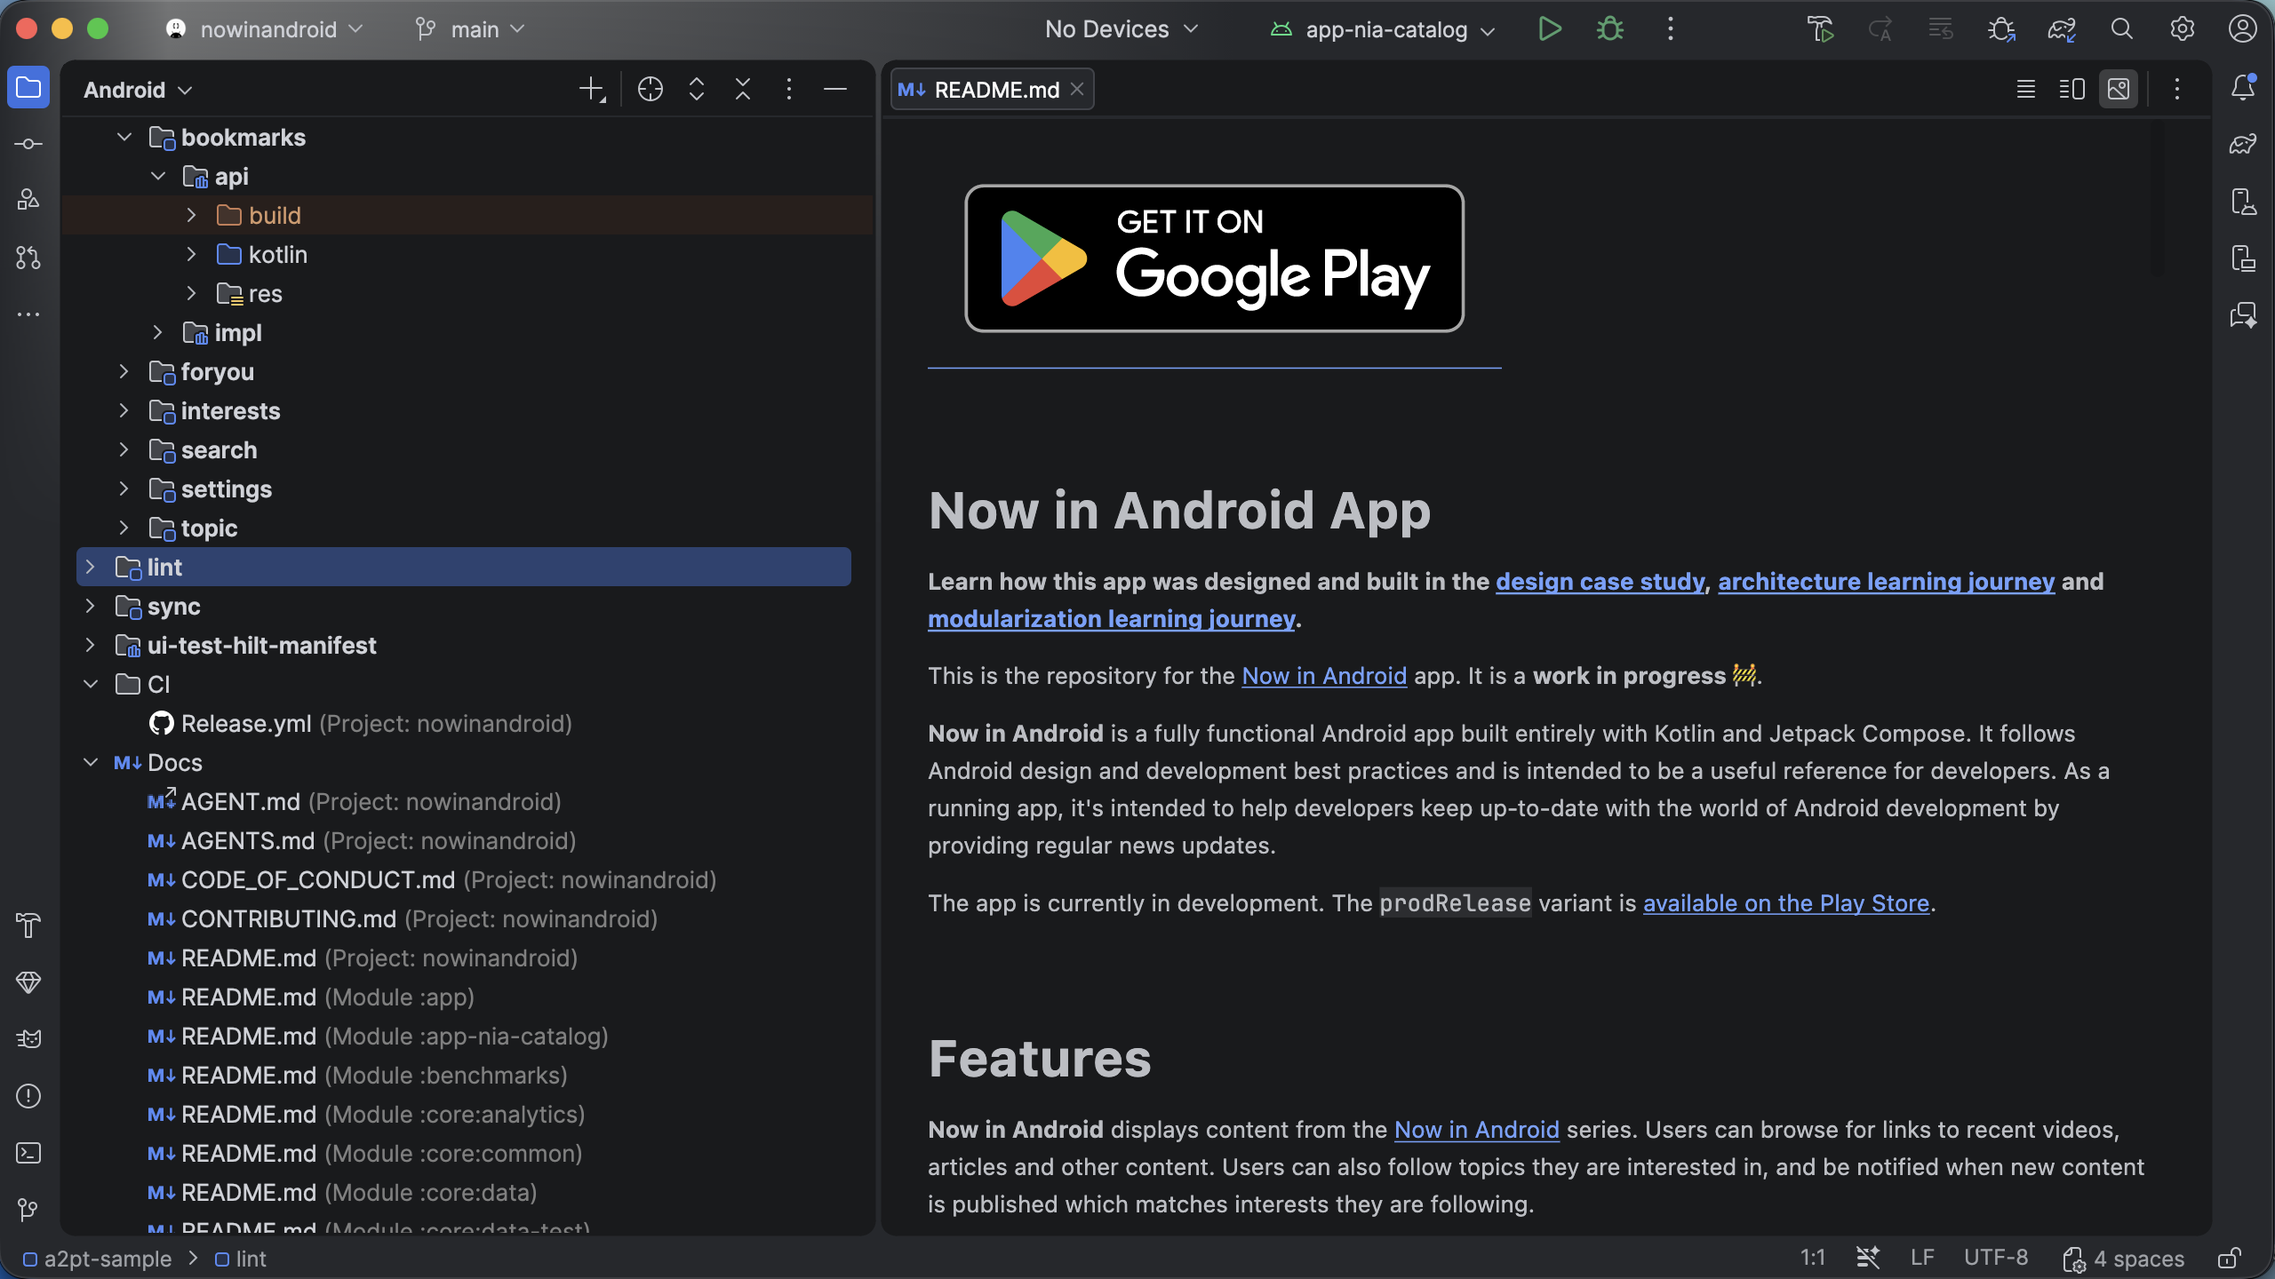
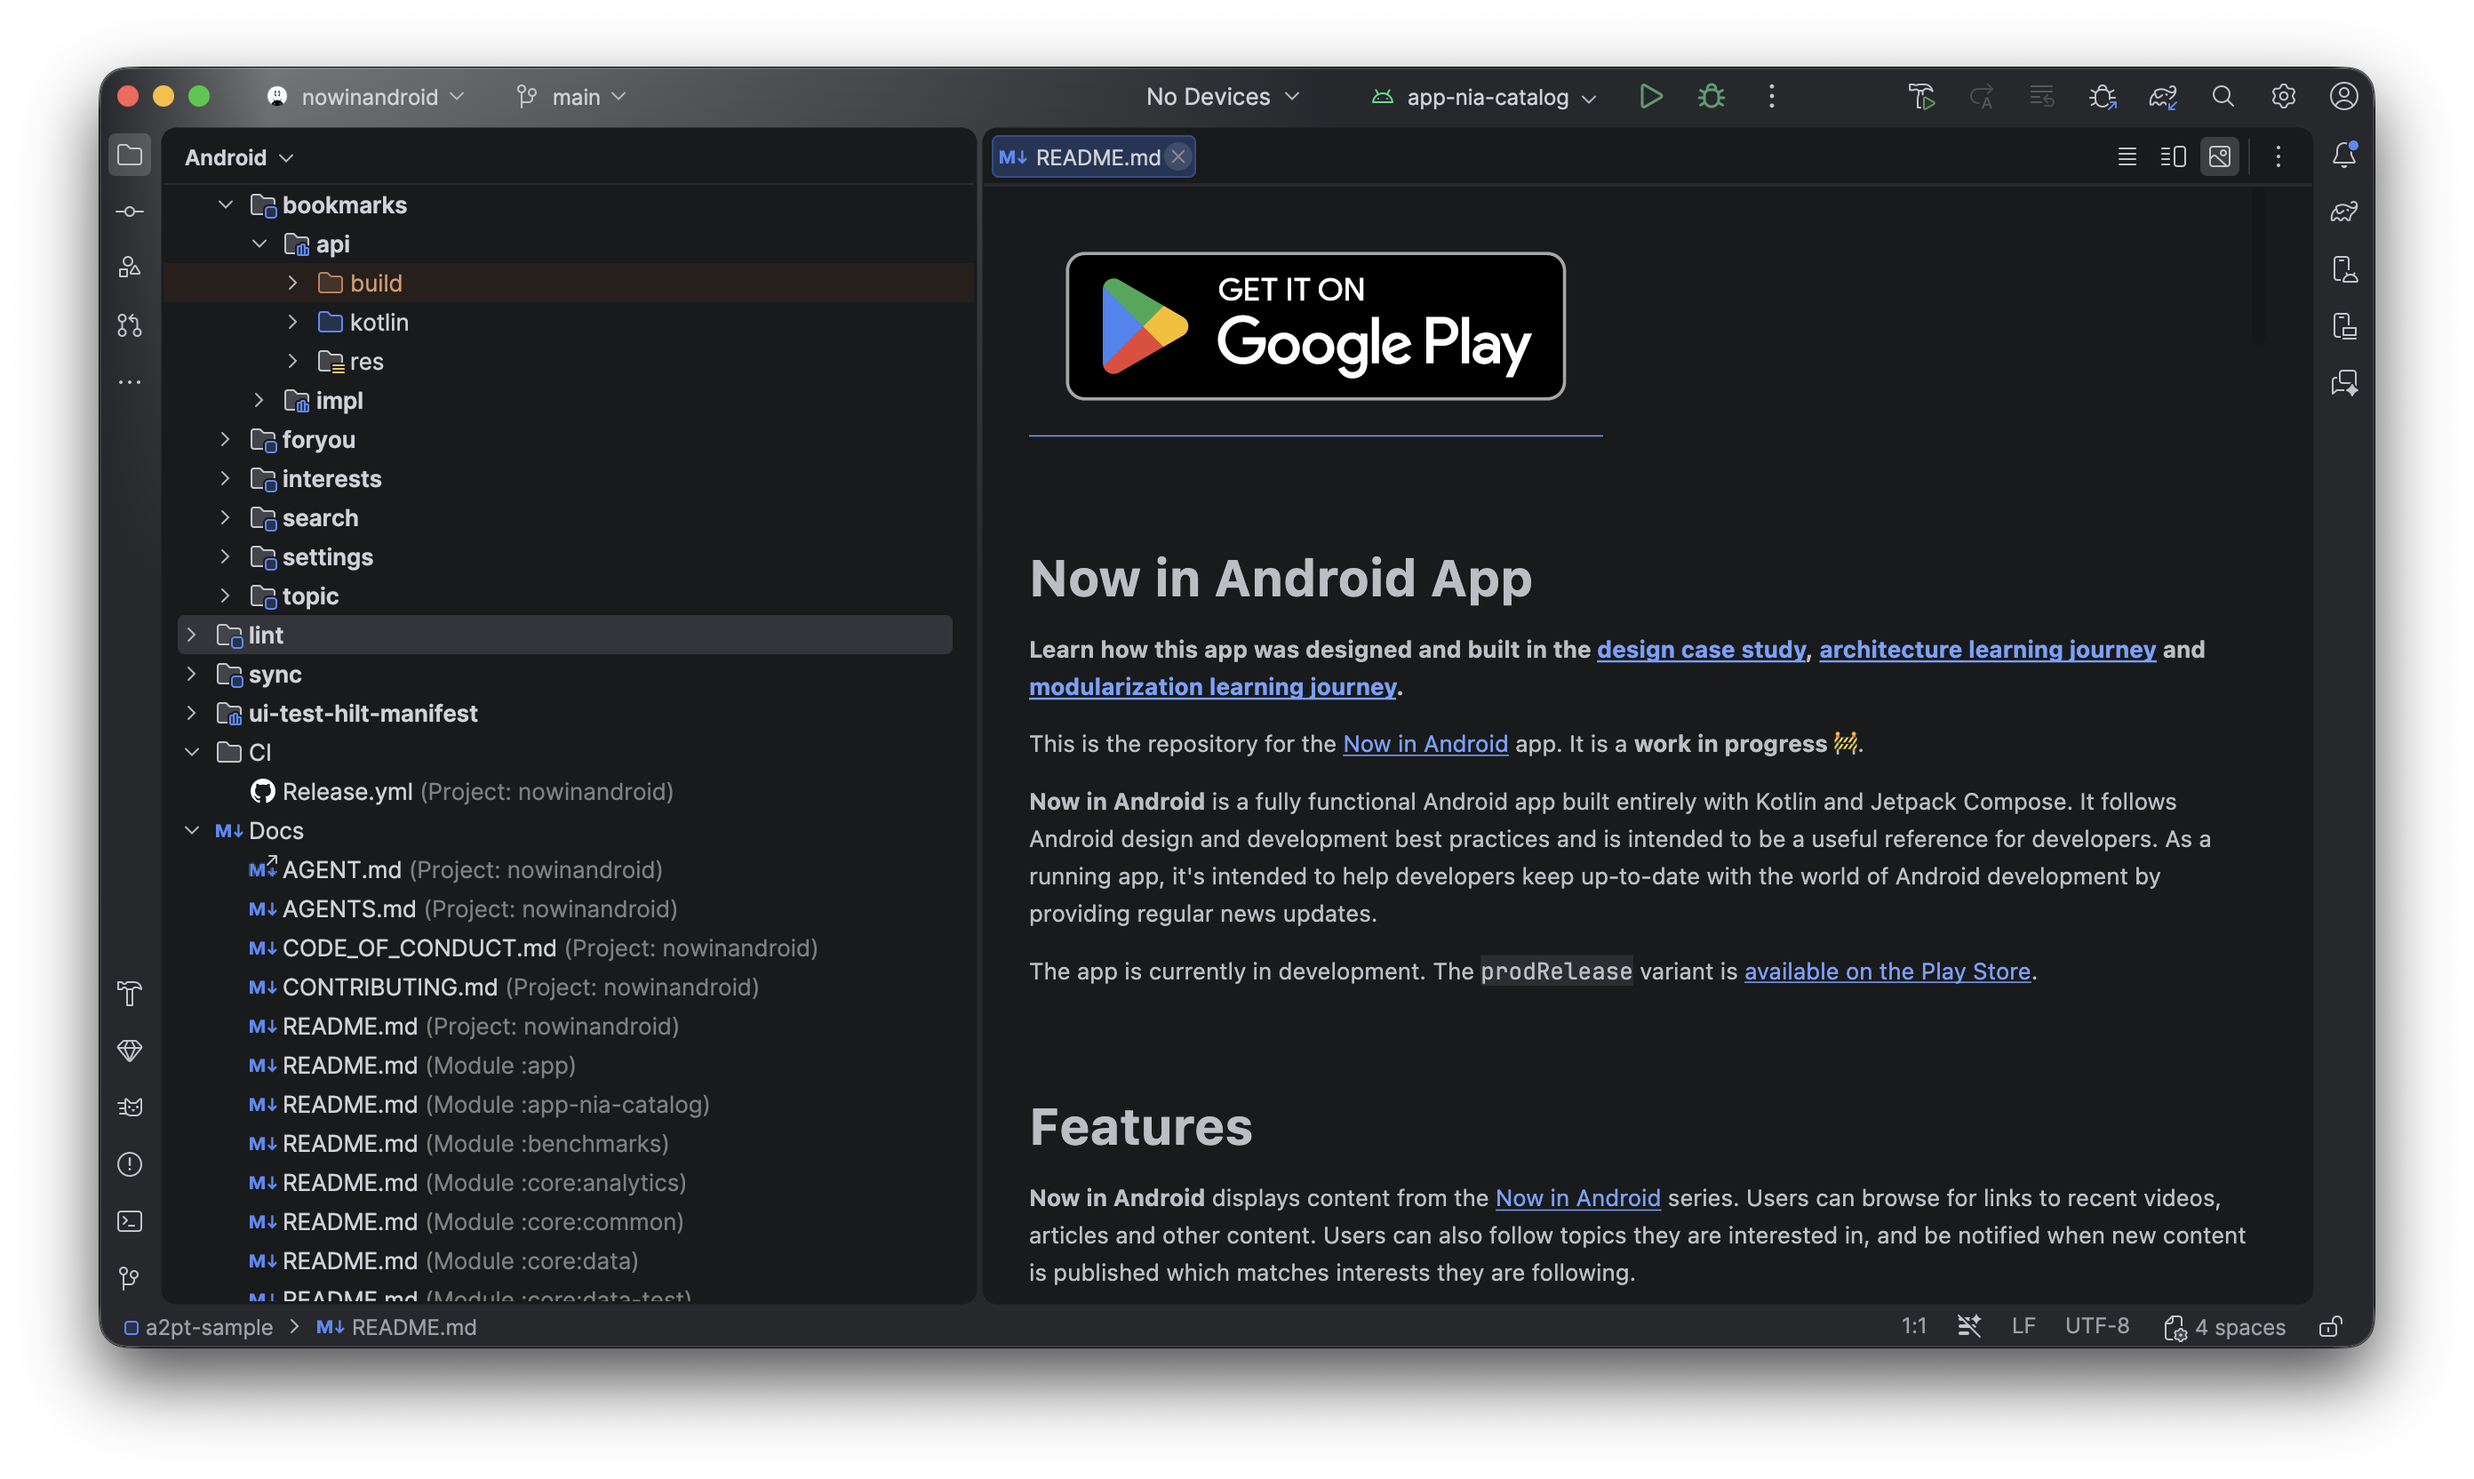
docs: refresh Marketplace screenshots and fix the capture tooling
Recapture the slides against Android Studio Quail 3 with the nowinandroid
sample, set real crops in shots.yaml, and replace the outdated img/ images
with crops of the same captures, keeping their file names.

Fixes from running the tooling on a Mac for the first time:

- capture.sh located the sandbox with `find ... | head -1`, which returns the
  stale Quail 1 sandbox when several exist, so the preloaded plugin settings
  never reached the IDE runIde starts. It now asks Gradle, through a new
  printSandboxConfigDirectory task that reads runIde's own sandbox path.
- The window resize did nothing on a fullscreen window and said so only by
  way of every later capture being wrong. It now checks the geometry it got.
- Shots are taken by hand with Ctrl-Shift-Cmd-4 and read off the clipboard
  rather than by screencapture on a fixed rectangle, so menus and dialogs
  that reach outside the window come out without the desktop behind them.

group-dialog and search-scope are upscaled 1.29x and 1.14x because those
dialogs were captured smaller than the slide area. Sharp versions need a
re-shoot with the dialogs dragged larger; the slides build without errors.

diff --git a/marketplace/README.md b/marketplace/README.md
@@ -24,8 +24,14 @@ marketplace/capture.sh
 ```
 
 The script resizes the IDE window to 1280×720 pt, then walks through each shot. For each one it
-says what to put on screen, counts down 8 seconds with a tick per second, captures exactly the
-window, and checks the result is 2560×1440. Press `r` to retake.
+says what to put on screen and waits. You take the shot yourself with `⌃⇧⌘4` — holding `⌃` copies
+it to the clipboard instead of writing a file — and press Enter. The script saves the clipboard to
+`screenshots/<name>.png` and reports the size. Press `r` to retake.
+
+Within `⌃⇧⌘4`, pressing Space and then `⌥`-clicking the window grabs the window alone, with no
+desktop behind it and no drop shadow, which on Retina is exactly the 2560×1440 mpshots wants. The
+two shots with a menu open need a dragged region instead, because a menu reaches outside the
+window; those come out another size, which `validate` only warns about.
 
 Afterwards it builds the slides into `out/` (git-ignored), opens `out/index.html`, and offers to
 commit and push the captures.
@@ -36,8 +42,8 @@ To retake only some shots:
 marketplace/capture.sh group-dialog search-scope
 ```
 
-The first run asks for Accessibility (window resize) and Screen Recording (capture) permission
-for your terminal.
+The first run asks for Accessibility permission for your terminal, for the window resize. Taking
+the shots goes through macOS's own screenshot service, so it needs nothing granted.
 
 ## 3. Ship
 
